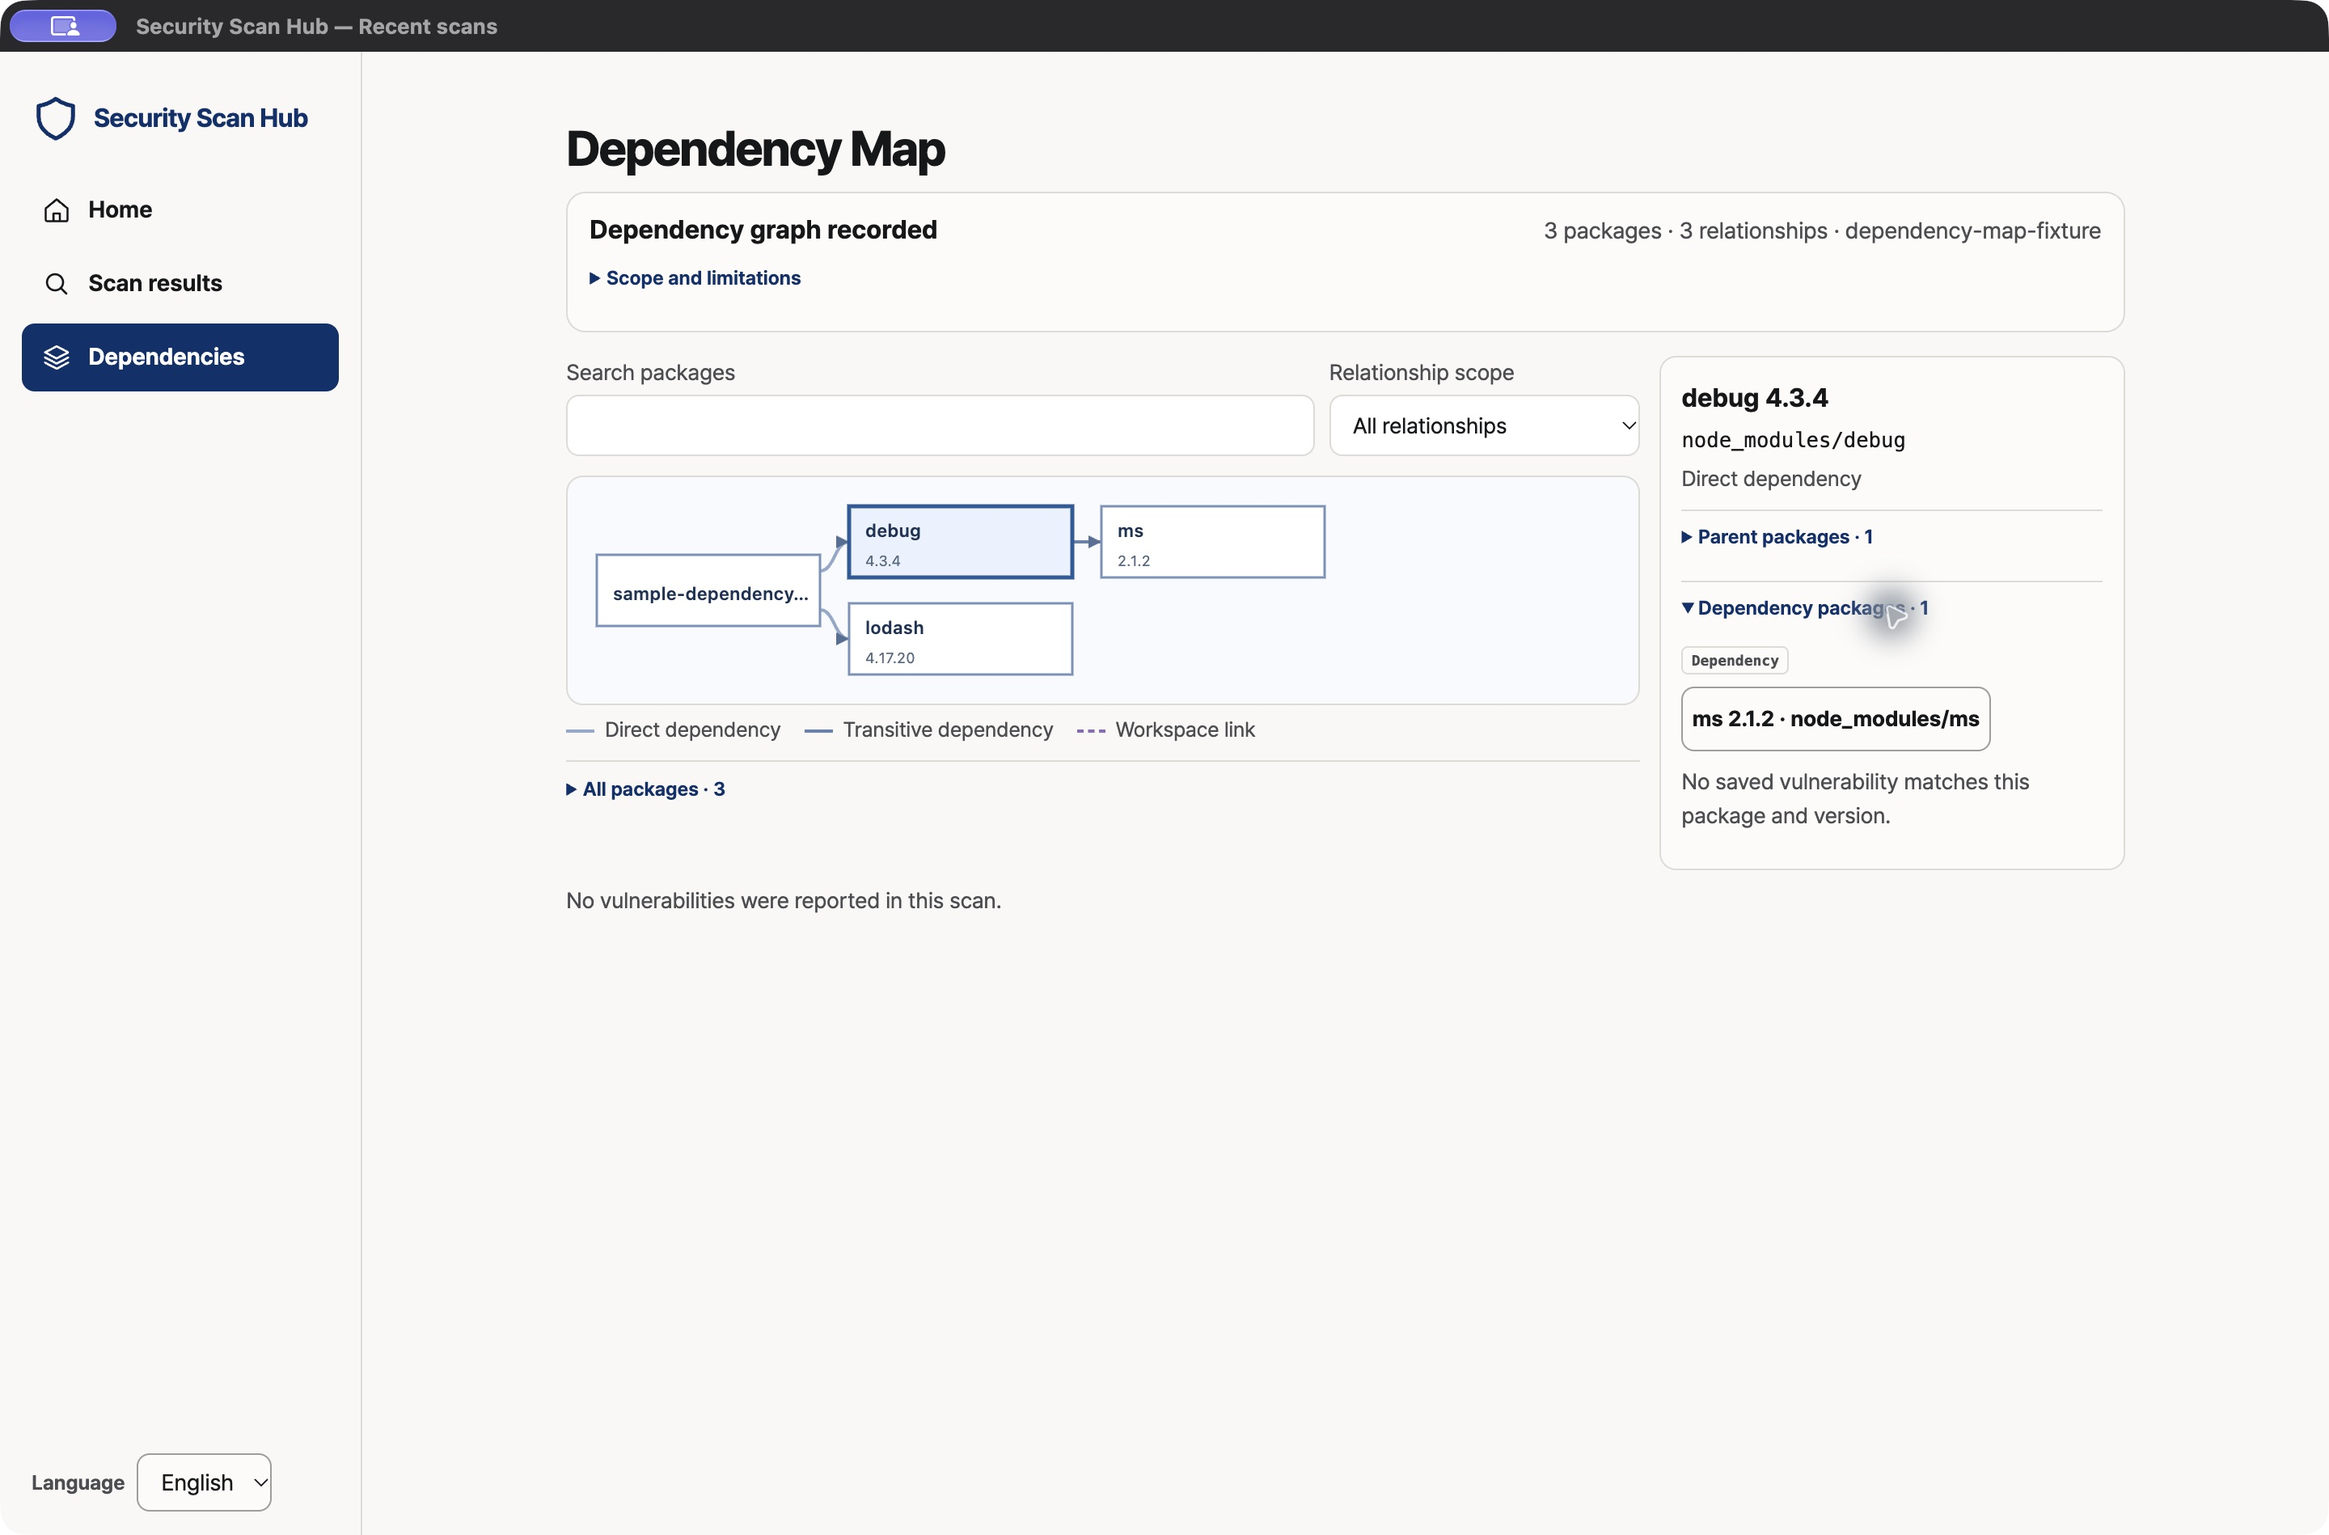
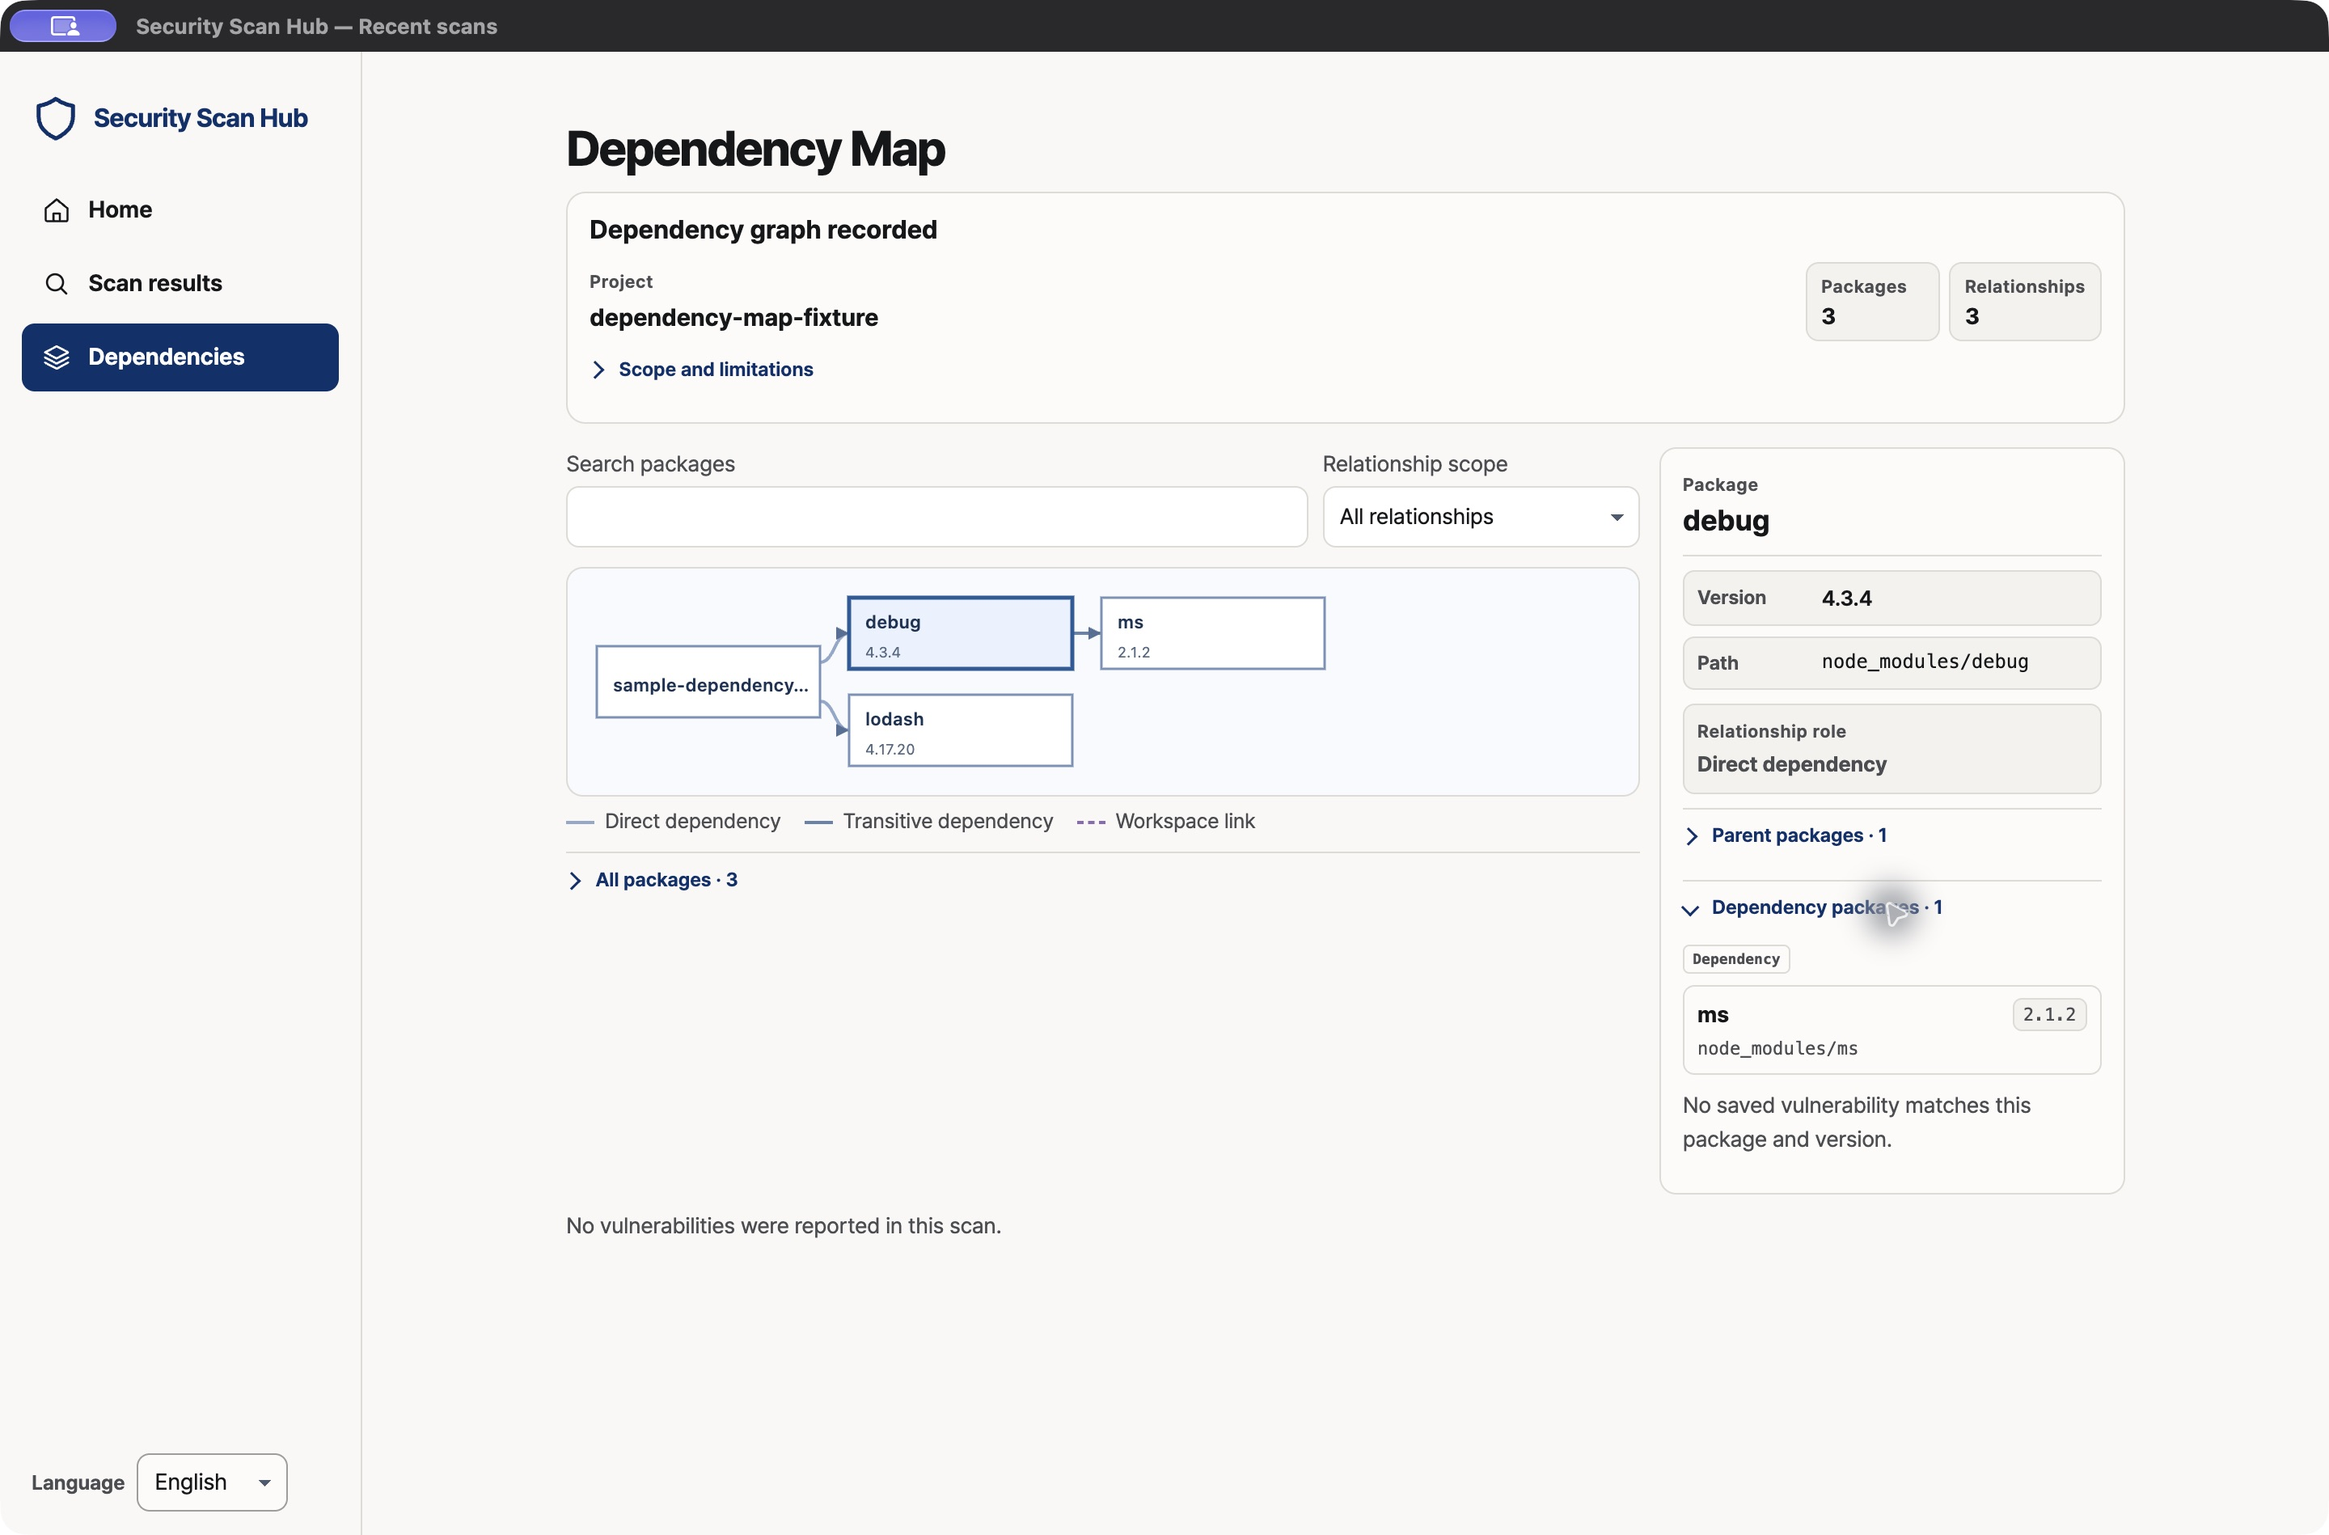
Improve dependency map readability and controls

diff --git a/src/web/style.css b/src/web/style.css
@@ -187,6 +187,20 @@ input, select {
   background: var(--surface);
   font: .875rem/1.35 var(--sans);
 }
+select:not([multiple]):not([size]) {
+  padding-inline-end: 2.25rem;
+  text-overflow: ellipsis;
+}
+@supports (appearance: none) {
+  select:not([multiple]):not([size]) {
+    appearance: none;
+    -webkit-appearance: none;
+    background-image: linear-gradient(45deg, transparent 50%, #4d5b71 50%), linear-gradient(135deg, #4d5b71 50%, transparent 50%);
+    background-repeat: no-repeat;
+    background-position: calc(100% - .79rem) calc(50% + .04rem), calc(100% - .56rem) calc(50% + .04rem);
+    background-size: .26rem .26rem;
+  }
+}
 .catalog .filters-reset { justify-self: start; min-height: 36px; }
 .artifact-list { display: grid; gap: .4rem; margin: .7rem 0 0; padding: 0; list-style: none; }
 .artifact-button {
@@ -285,7 +299,6 @@ tbody tr:nth-child(even) { background: var(--surface-soft); }
 .finding-select:hover .finding-title { text-decoration: underline; text-underline-offset: .18em; }
 .finding-select:focus-visible { outline: 2px solid var(--accent); outline-offset: 1px; }
 .finding-table tbody tr[data-selected="true"] { background: var(--accent-soft); }
-.finding-table tbody tr[data-selected="true"] td:first-child { box-shadow: inset 3px 0 var(--accent); }
 .finding-table td:nth-child(2) { vertical-align: middle; }
 .finding-cell-label { display: none; }
 .severity-badge { display: inline-flex; align-items: center; max-width: 100%; padding: .2rem .48rem; border-radius: .35rem; background: var(--danger-soft); color: var(--danger); font: 750 .74rem/1.4 var(--sans); text-transform: uppercase; overflow-wrap: anywhere; }
@@ -297,6 +310,29 @@ tbody tr:nth-child(even) { background: var(--surface-soft); }
 .path-full { white-space: pre-wrap; }
 details { margin: .3rem 0; }
 summary { color: var(--accent); font-size: .75rem; font-weight: 650; }
+@supports selector(details > summary::marker) {
+  details > summary { list-style: none; }
+  details > summary::-webkit-details-marker { display: none; }
+  details > summary::marker { content: ""; }
+  details > summary::before {
+    display: inline-block;
+    flex: 0 0 .42rem;
+    width: .42rem;
+    height: .42rem;
+    margin-inline-end: .62rem;
+    border-inline-end: 1.5px solid currentColor;
+    border-block-end: 1.5px solid currentColor;
+    transform: rotate(-45deg) translateY(-.04rem);
+    transform-origin: center;
+    content: "";
+    vertical-align: middle;
+    transition: transform .14s ease;
+    pointer-events: none;
+  }
+  details[open] > summary::before { transform: rotate(45deg) translateY(-.04rem); }
+  :dir(rtl) details > summary::before { transform: rotate(135deg) translateY(-.04rem); }
+  :dir(rtl) details[open] > summary::before { transform: rotate(225deg) translateY(-.04rem); }
+}
 pre { max-height: 22rem; overflow: auto; margin: .4rem 0; padding: .65rem; border: 1px solid #233d54; border-radius: 4px; background: var(--code-bg); color: var(--code-ink); white-space: pre-wrap; overflow-wrap: anywhere; word-break: break-word; font: 10px/1.55 var(--mono); }
 .pager { display: flex; align-items: center; justify-content: space-between; gap: .6rem; padding: .55rem 0; color: var(--muted); font: 10px/1.4 var(--mono); }
 .pager-actions { display: flex; gap: .3rem; }
@@ -331,6 +367,17 @@ pre { max-height: 22rem; overflow: auto; margin: .4rem 0; padding: .65rem; borde
 #evidence-back { min-height: 44px; color: var(--accent); }
 #evidence-back::before { content: "←" / ""; margin-inline-end: .45em; }
 #evidence-back:hover { background: var(--accent-soft); }
+#evidence-panel > .section-heading {
+  box-sizing: border-box;
+  align-items: center;
+  justify-content: flex-start;
+  flex-wrap: wrap;
+  gap: .55rem .8rem;
+  min-height: 56px;
+  padding: .7rem clamp(1rem, 2vw, 2rem);
+}
+#evidence-panel > .section-heading > #evidence-back { flex: 0 1 auto; max-width: 100%; padding: .45rem .7rem; white-space: normal; }
+#evidence-panel > .section-heading > #evidence-title { flex: 1 1 12rem; min-width: 0; margin: 0; overflow-wrap: anywhere; }
 
 @media (min-width: 1121px) {
   body:not([data-desktop-view]) #evidence-back { display: none; }
@@ -910,11 +957,16 @@ body[data-desktop-view="results"] .desk[data-reading="evidence"] .evidence-panel
   justify-content: flex-start;
   flex-direction: row;
   flex-wrap: wrap;
-  gap: .5rem 1rem;
-  padding: 0 0 .85rem;
-  border-radius: 0;
+  gap: .5rem .8rem;
+  min-height: 48px;
+  margin-bottom: .5rem;
+  padding: .55rem var(--pane-inset) .75rem;
+  border-bottom: 1px solid var(--line);
+  border-radius: 0 0 var(--radius) var(--radius);
   background: transparent;
 }
+body[data-desktop-view="results"] .desk[data-reading="evidence"] #evidence-back { flex: 0 1 auto; max-width: 100%; padding: .4rem .62rem; line-height: 1.3; white-space: normal; }
+body[data-desktop-view="results"] .desk[data-reading="evidence"] #evidence-title { flex: 1 1 12rem; min-width: 0; margin: 0; overflow-wrap: anywhere; }
 body[data-desktop-view="results"] .evidence-record { max-width: 54rem; }
 
 .dependency-view { min-width: 0; }
@@ -931,19 +983,31 @@ html[lang="ko"] .dependency-scope { word-break: keep-all; overflow-wrap: anywher
 .dependency-findings-body li { display: flex; align-items: center; gap: .5rem; }
 .dependency-findings .quiet-button { flex: 1; min-width: 0; text-align: start; overflow-wrap: anywhere; }
 .dependency-graph-panel { margin-block: .5rem .9rem; padding: .65rem .85rem; border: 1px solid var(--line); border-radius: var(--radius); background: var(--surface); }
-.dependency-overview-head { display: flex; flex-wrap: wrap; align-items: baseline; gap: .2rem 1rem; }
+.dependency-overview-head { display: grid; grid-template-columns: minmax(0, 1fr); gap: .45rem; }
 .dependency-graph-panel h3, .dependency-detail h3 { margin: 0; font-size: 1rem; }
-.dependency-overview-head .dependency-meta { margin: 0 0 0 auto; font-size: .88rem; }
+.dependency-overview-meta { display: flex; align-items: center; justify-content: space-between; flex-wrap: wrap; gap: .5rem 1rem; min-width: 0; }
+.dependency-project-meta, .dependency-count, .dependency-detail-heading, .dependency-role-field { display: grid; gap: .12rem; min-width: 0; }
+.dependency-project-meta { flex: 1 1 12rem; }
+.dependency-project-name { overflow-wrap: anywhere; }
+.dependency-field-label { color: var(--muted); font-size: .69rem; font-weight: 650; letter-spacing: .035em; }
+.dependency-counts { display: flex; flex-wrap: wrap; gap: .35rem; }
+.dependency-count { min-width: 5.2rem; padding: .35rem .55rem; border: 1px solid var(--line); border-radius: .5rem; background: var(--surface-soft); }
+.dependency-count strong { font-size: .88rem; line-height: 1.2; }
 .dependency-meta, .dependency-notice, .dependency-kind { color: var(--muted); }
 .dependency-notice { margin: .35rem 0; }
 .dependency-state-note { margin: .25rem 0; color: var(--muted); font-size: .875rem; }
 .dependency-coverage { margin-top: .3rem; color: var(--muted); font-size: .82rem; }
 .dependency-coverage > summary { min-height: 30px; padding-block: .2rem; cursor: pointer; }
-.dependency-coverage-body p { margin: .35rem 0; }
+.dependency-coverage-body p { margin: .2rem 0; line-height: 1.45; }
+.dependency-coverage-field { padding: .45rem .55rem; border: 1px solid var(--line); border-radius: .5rem; background: var(--surface-soft); }
+.dependency-coverage-field h4, .dependency-coverage-label { margin: 0 0 .2rem; color: var(--ink); font-size: .75rem; font-weight: 700; }
+.dependency-coverage-label { margin-top: .55rem; }
 .dependency-lockfiles { margin: .3rem 0; padding-inline-start: 1.2rem; overflow-wrap: anywhere; }
 .dependency-controls { display: flex; align-items: end; flex-wrap: wrap; gap: .55rem; margin-block: 0 .75rem; }
 .dependency-controls label { display: grid; gap: .18rem; min-width: min(100%, 12rem); color: var(--muted); font-size: .85rem; }
-.dependency-controls input, .dependency-controls select { min-height: 38px; padding: .38rem .6rem; border: 1px solid var(--line); border-radius: .5rem; background: #fff; color: var(--ink); font: inherit; }
+.dependency-controls input, .dependency-controls select { min-height: 38px; border: 1px solid var(--line); border-radius: .5rem; background-color: #fff; color: var(--ink); font: inherit; }
+.dependency-controls input { padding: .38rem .6rem; }
+.dependency-controls select:not([multiple]):not([size]) { padding: .38rem 2.25rem .38rem .6rem; }
 .dependency-search { flex: 1; }
 .dependency-graph-scroll { max-width: 100%; max-height: 34rem; overflow: auto; border: 1px solid var(--line); border-radius: .65rem; background: #f7faff; overscroll-behavior: contain; }
 .dependency-graph { display: block; max-width: none; max-height: none; overflow: visible; }
@@ -966,18 +1030,29 @@ html[lang="ko"] .dependency-scope { word-break: keep-all; overflow-wrap: anywher
 .dependency-legend .legend-transitive::before { border-top-color: #6583ab; }
 .dependency-legend .legend-workspace::before { border-top: 2px dashed #8c6cb3; }
 .dependency-graph-list { display: grid; grid-template-columns: repeat(auto-fit, minmax(min(100%, 18rem), 1fr)); gap: .4rem .75rem; margin: .75rem 0; padding: 0; list-style: none; }
-.dependency-graph-list .quiet-button { width: 100%; min-height: 42px; text-align: start; overflow-wrap: anywhere; }
+.dependency-graph-list .quiet-button { width: 100%; min-height: 48px; text-align: start; overflow-wrap: anywhere; }
 .dependency-detail-panel { min-width: 0; }
-.dependency-detail { min-width: 0; margin: 0; padding: .8rem; border: 1px solid var(--line); border-radius: .65rem; background: var(--surface); }
-.dependency-detail > h3 { margin-bottom: .25rem; overflow-wrap: anywhere; }
-.dependency-detail > .mono { margin: .25rem 0; font-size: .8rem; overflow-wrap: anywhere; }
-.dependency-kind { margin: .25rem 0 .55rem; font-size: .82rem; }
+.dependency-detail { min-width: 0; margin: 0; padding: .85rem; border: 1px solid var(--line); border-radius: .65rem; background: var(--surface); }
+.dependency-detail-heading { margin-bottom: .55rem; padding-bottom: .55rem; border-bottom: 1px solid var(--line); }
+.dependency-detail > .dependency-detail-heading h3 { font-size: 1.12rem; line-height: 1.35; overflow-wrap: anywhere; }
+.dependency-detail-fields { display: grid; gap: .4rem; margin: 0; }
+.dependency-detail-field { display: grid; grid-template-columns: minmax(4.25rem, auto) minmax(0, 1fr); align-items: start; gap: .55rem; padding: .38rem .5rem; border: 1px solid var(--line); border-radius: .45rem; background: var(--surface-soft); }
+.dependency-detail-field dt { color: var(--muted); font-size: .75rem; font-weight: 650; }
+.dependency-detail-field dd { min-width: 0; margin: 0; font-size: .82rem; font-weight: 600; overflow-wrap: anywhere; }
+.dependency-detail-field dd.mono { font-size: .74rem; font-weight: 450; }
+.dependency-role-field { margin: .55rem 0; padding: .45rem .5rem; border: 1px solid var(--line); border-radius: .45rem; background: var(--surface-soft); }
+.dependency-role-field .dependency-kind { margin: 0; font-size: .82rem; font-weight: 700; }
+.dependency-package-row, .dependency-relation-target { display: grid; grid-template-columns: minmax(0, 1fr) auto; align-items: center; gap: .12rem .55rem; min-width: 0; }
+.dependency-package-row { padding: .45rem .55rem; border: 1px solid var(--line); border-radius: .5rem; background: var(--surface); }
+.dependency-row-name { min-width: 0; font-size: .86rem; font-weight: 700; overflow-wrap: anywhere; }
+.dependency-row-version { padding: .1rem .35rem; border: 1px solid var(--line); border-radius: .35rem; background: var(--surface-soft); color: var(--muted); font: .68rem/1.4 var(--mono); overflow-wrap: anywhere; }
+.dependency-row-path { grid-column: 1 / -1; min-width: 0; color: var(--muted); font-size: .69rem; overflow-wrap: anywhere; }
 .dependency-detail .quiet-button { text-align: start; }
 .dependency-relations { margin-block: .45rem; border-top: 1px solid var(--line); }
 .dependency-relations > summary { min-height: 36px; padding-block: .4rem; cursor: pointer; font-weight: 650; }
 .dependency-relations-list { display: grid; gap: .25rem; margin: .2rem 0 .4rem; padding: 0; list-style: none; }
 .dependency-relations-list li { display: flex; align-items: start; flex-wrap: wrap; gap: .45rem; }
-.dependency-relation-target { min-width: 0; padding: .15rem .35rem; overflow-wrap: anywhere; text-align: start; font-size: .84rem; }
+.dependency-relation-target { width: 100%; min-width: 0; padding: .42rem .5rem; border: 1px solid var(--line); border-radius: .45rem; background: var(--surface); overflow-wrap: anywhere; text-align: start; font-size: .84rem; }
 .dependency-selection-hint, .dependency-empty-vulnerabilities { margin: .55rem 0; color: var(--muted); font-size: .85rem; }
 .dependency-package-list-disclosure, .dependency-reported-list { margin-top: .55rem; border-top: 1px solid var(--line); }
 .dependency-package-list-disclosure > summary, .dependency-reported-list > summary { min-height: 38px; padding-block: .45rem; color: var(--accent); cursor: pointer; font-weight: 650; }
